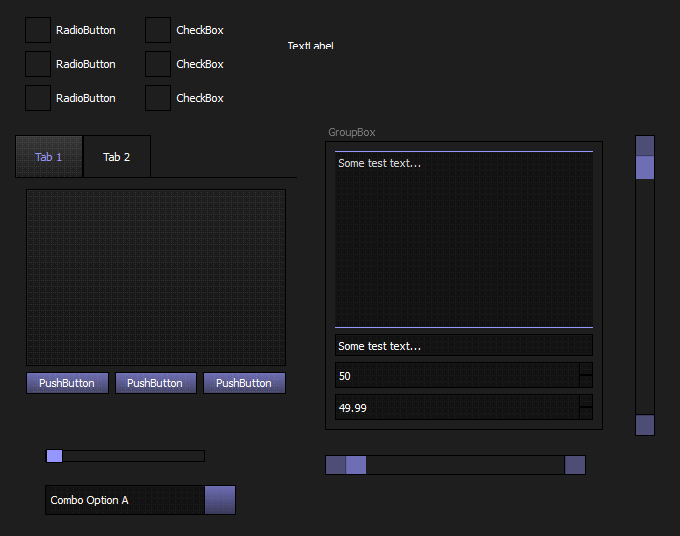
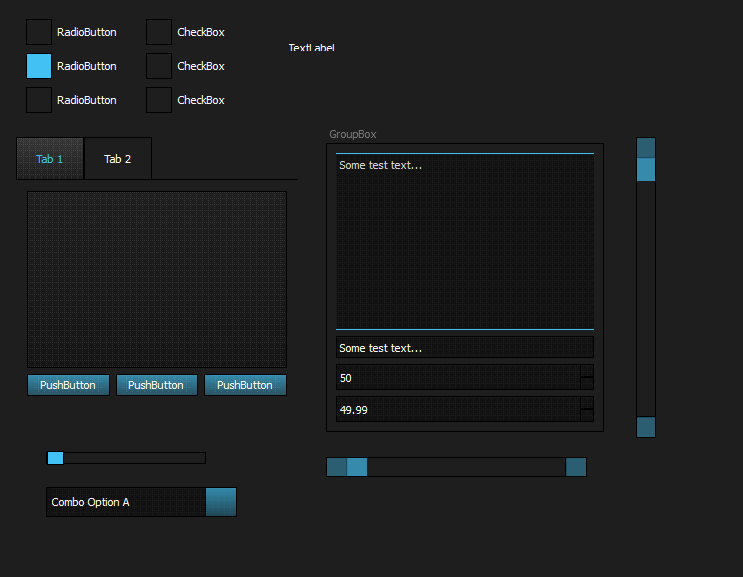
Updating space.css

diff --git a/qute/constants.py b/qute/constants.py
@@ -37,8 +37,8 @@ QUTE_STYLE_LOCATIONS.insert(
 STYLE_DEFAULTS = {
     '_BACKGROUND_': '30, 30, 30',
     '_ALTBACKGROUND_': '70, 70, 70',
-    '_FOREGROUND_': '150, 150, 255',
-    '_HIGHLIGHT_': '200, 200, 255',
+    '_FOREGROUND_': '66, 194, 244',
+    '_HIGHLIGHT_': '109, 214, 255',
     '_TEXT_': '255, 255, 255',
 }
 
